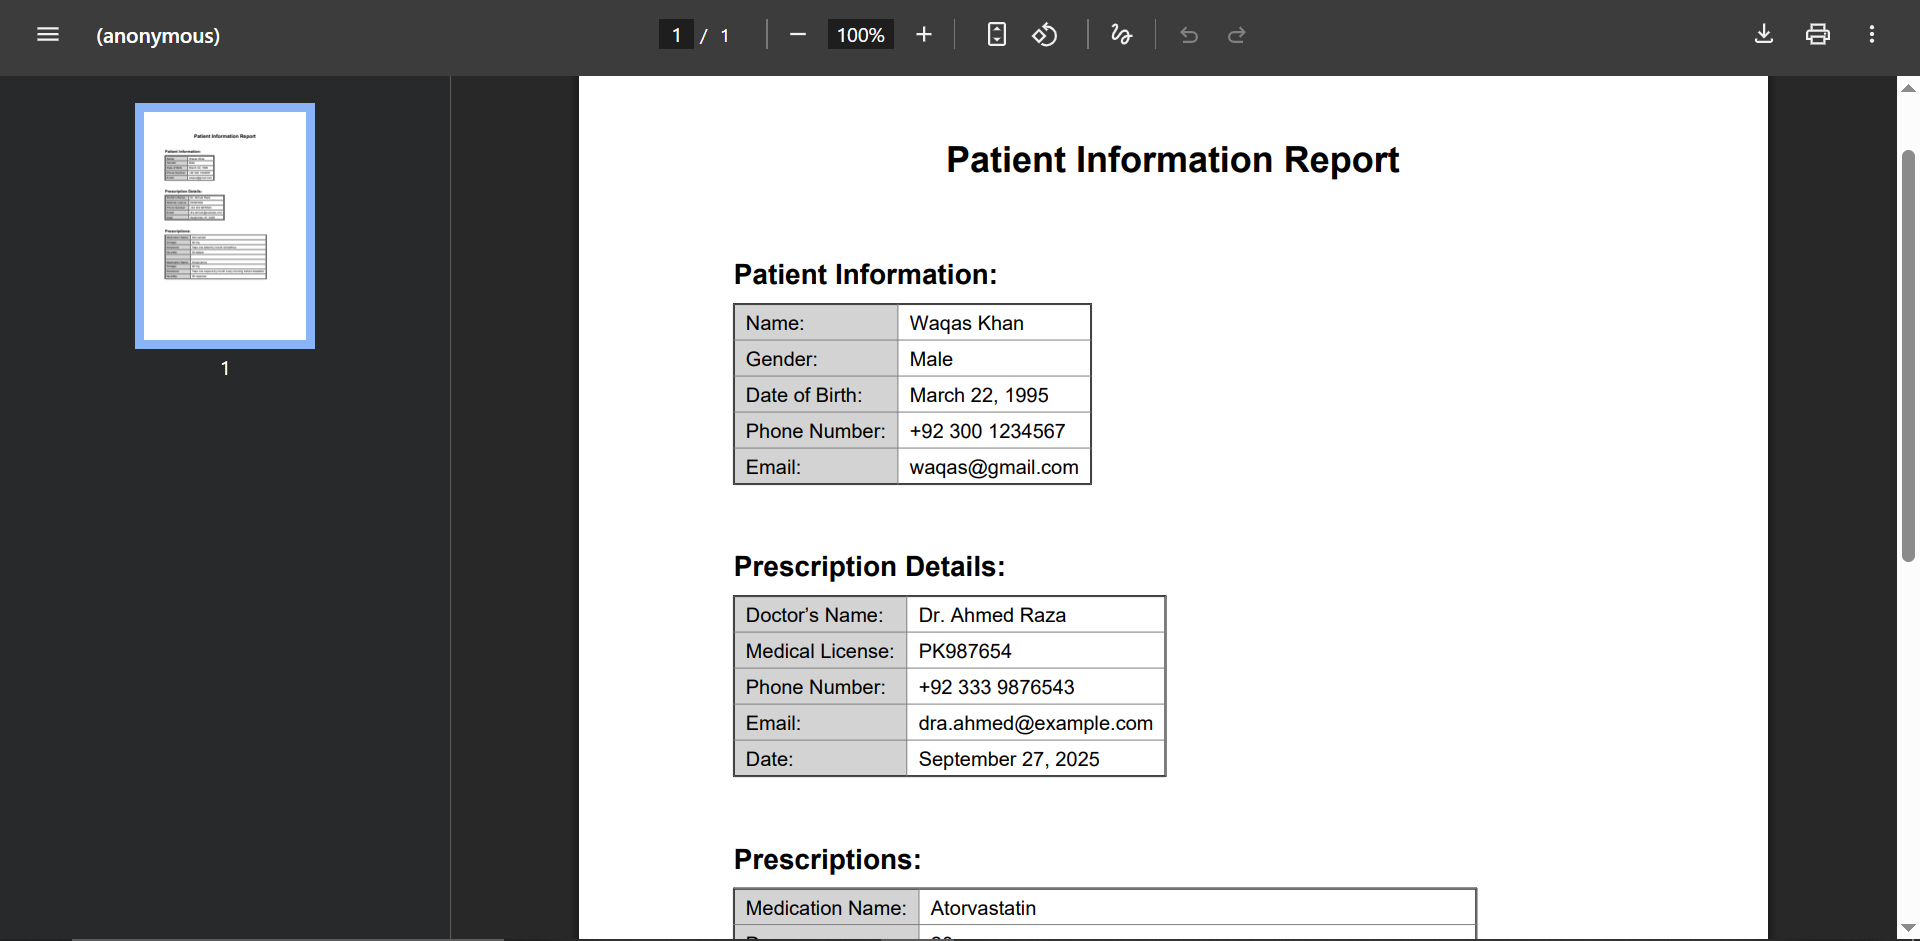
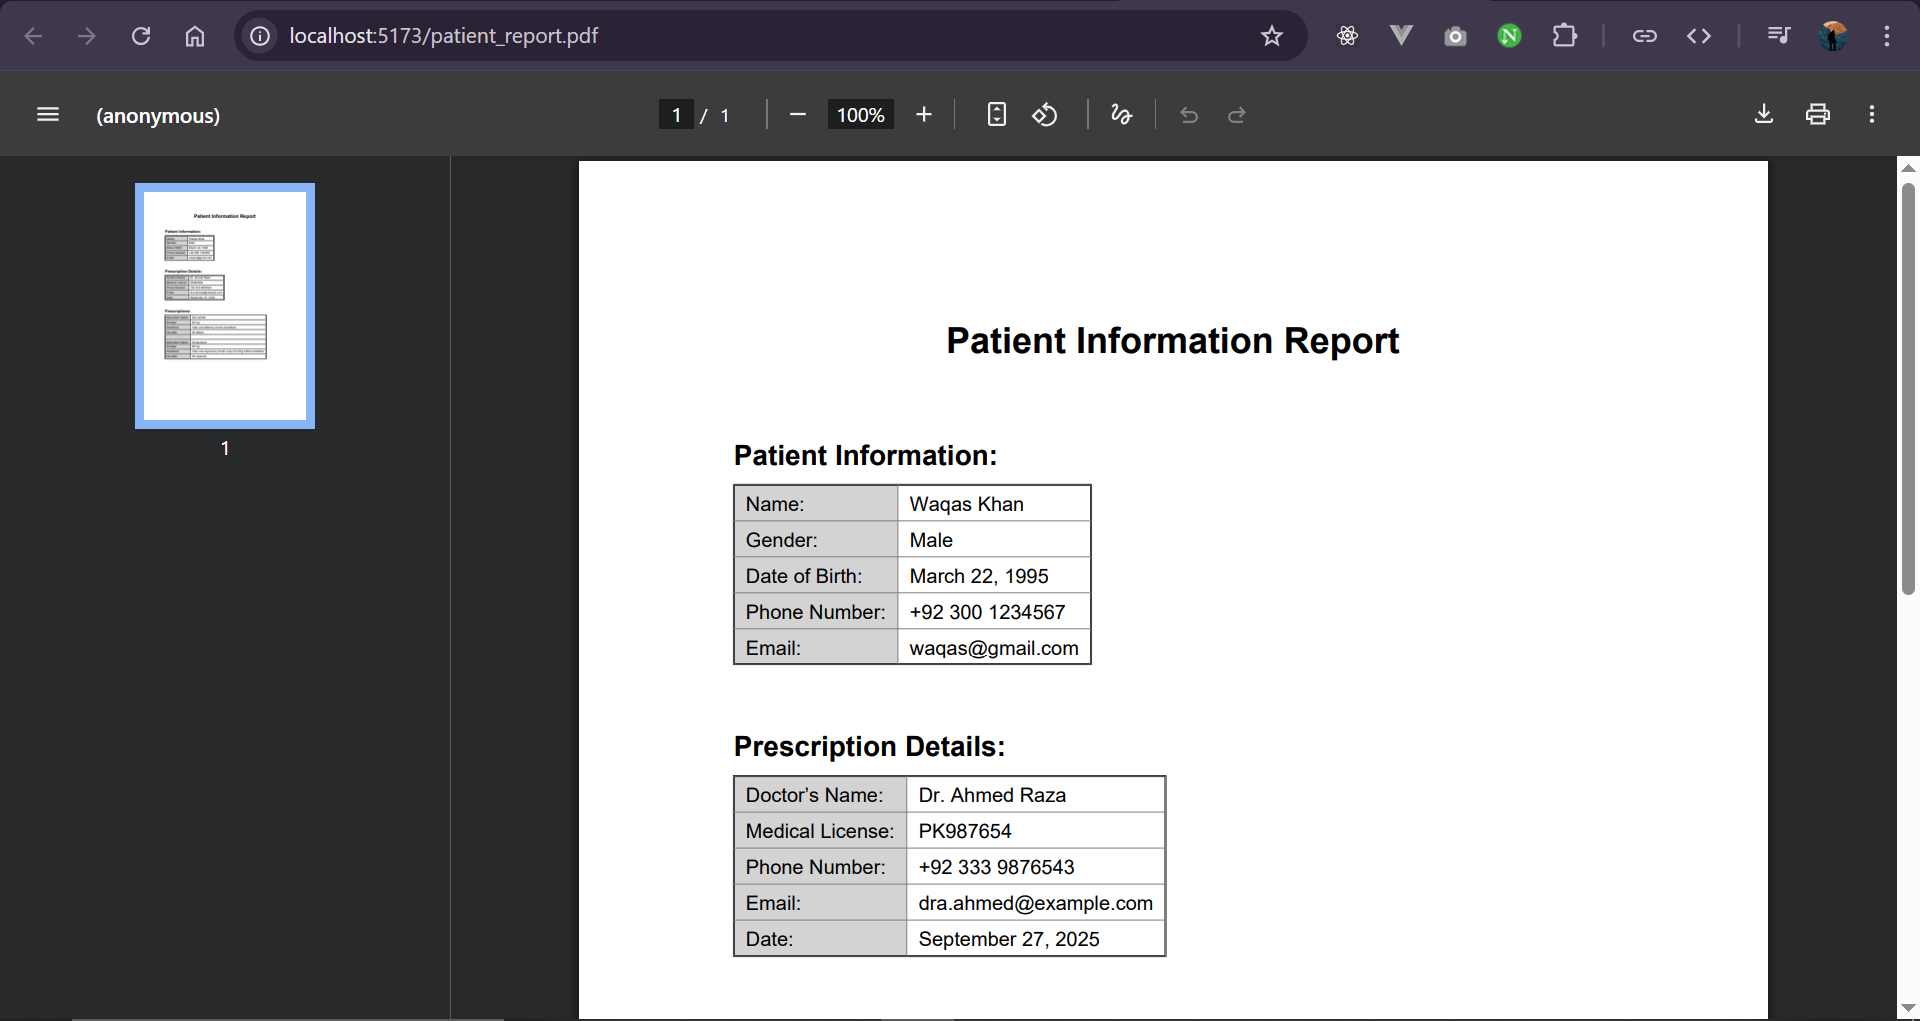
file changed

diff --git a/src/Components/Navbar/UserDropdown.jsx b/src/Components/Navbar/UserDropdown.jsx
@@ -5,14 +5,14 @@ function UserDropdown({ onItemClick }) {
   return (
     <div className="absolute top-16 right-8 bg-white shadow-lg rounded-lg border border-gray-100 flex flex-col w-40 p-2 z-50">
       <Link
-        to="/frontend_developer_capstone_project/profile"
+        to="/profile"
         onClick={onItemClick}
         className="px-4 py-2 text-gray-700 hover:bg-blue-50 hover:text-blue-600 rounded-md transition duration-150"
       >
         Profile
       </Link>
       <Link
-        to="/frontend_developer_capstone_project/reports"
+        to="/reports"
         onClick={onItemClick}
         className="px-4 py-2 text-gray-700 hover:bg-blue-50 hover:text-blue-600 rounded-md transition duration-150"
       >

diff --git a/src/Components/Profile/ProfileCard.jsx b/src/Components/Profile/ProfileCard.jsx
@@ -159,11 +159,11 @@ const ProfileForm = () => {
             <div className="space-y-3 text-gray-700">
               <p>
                 <span className="font-semibold text-gray-800">Email:</span>{" "}
-                {userDetails.email}
+                {userDetails.email || "waqaskhan@gmail.com"}
               </p>
               <p>
                 <span className="font-semibold text-gray-800">Phone:</span>{" "}
-                {userDetails.phone || "Not provided"}
+                {userDetails.phone || "0345209379527"}
               </p>
             </div>
             <button
